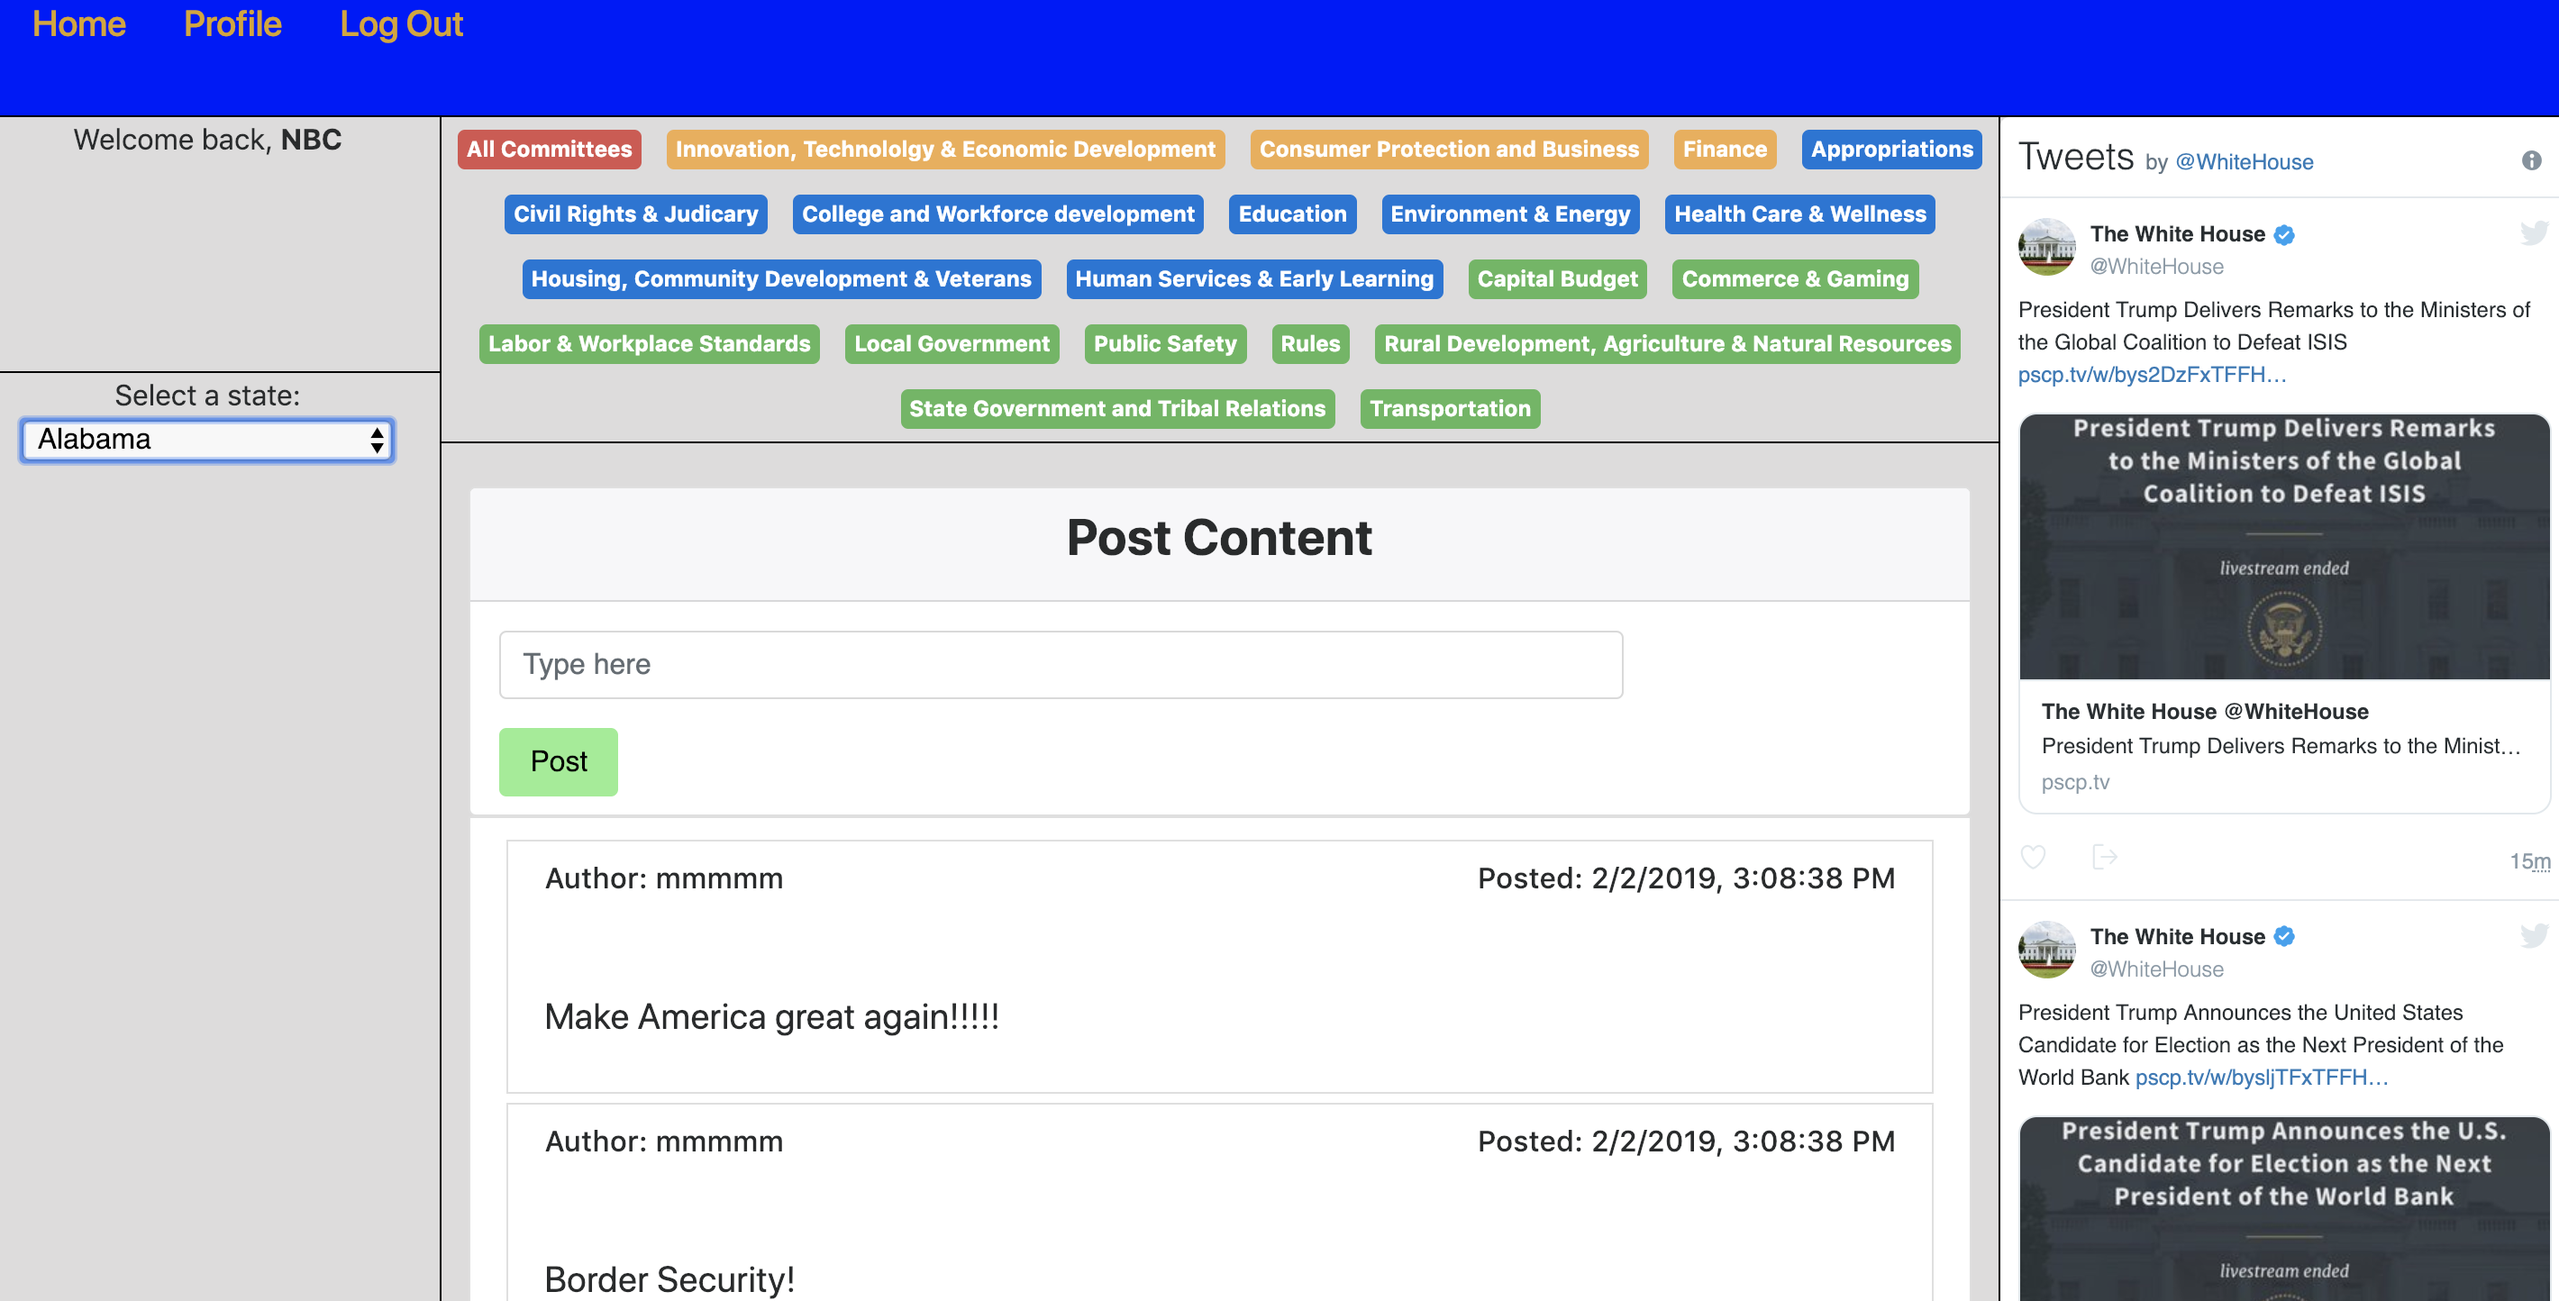
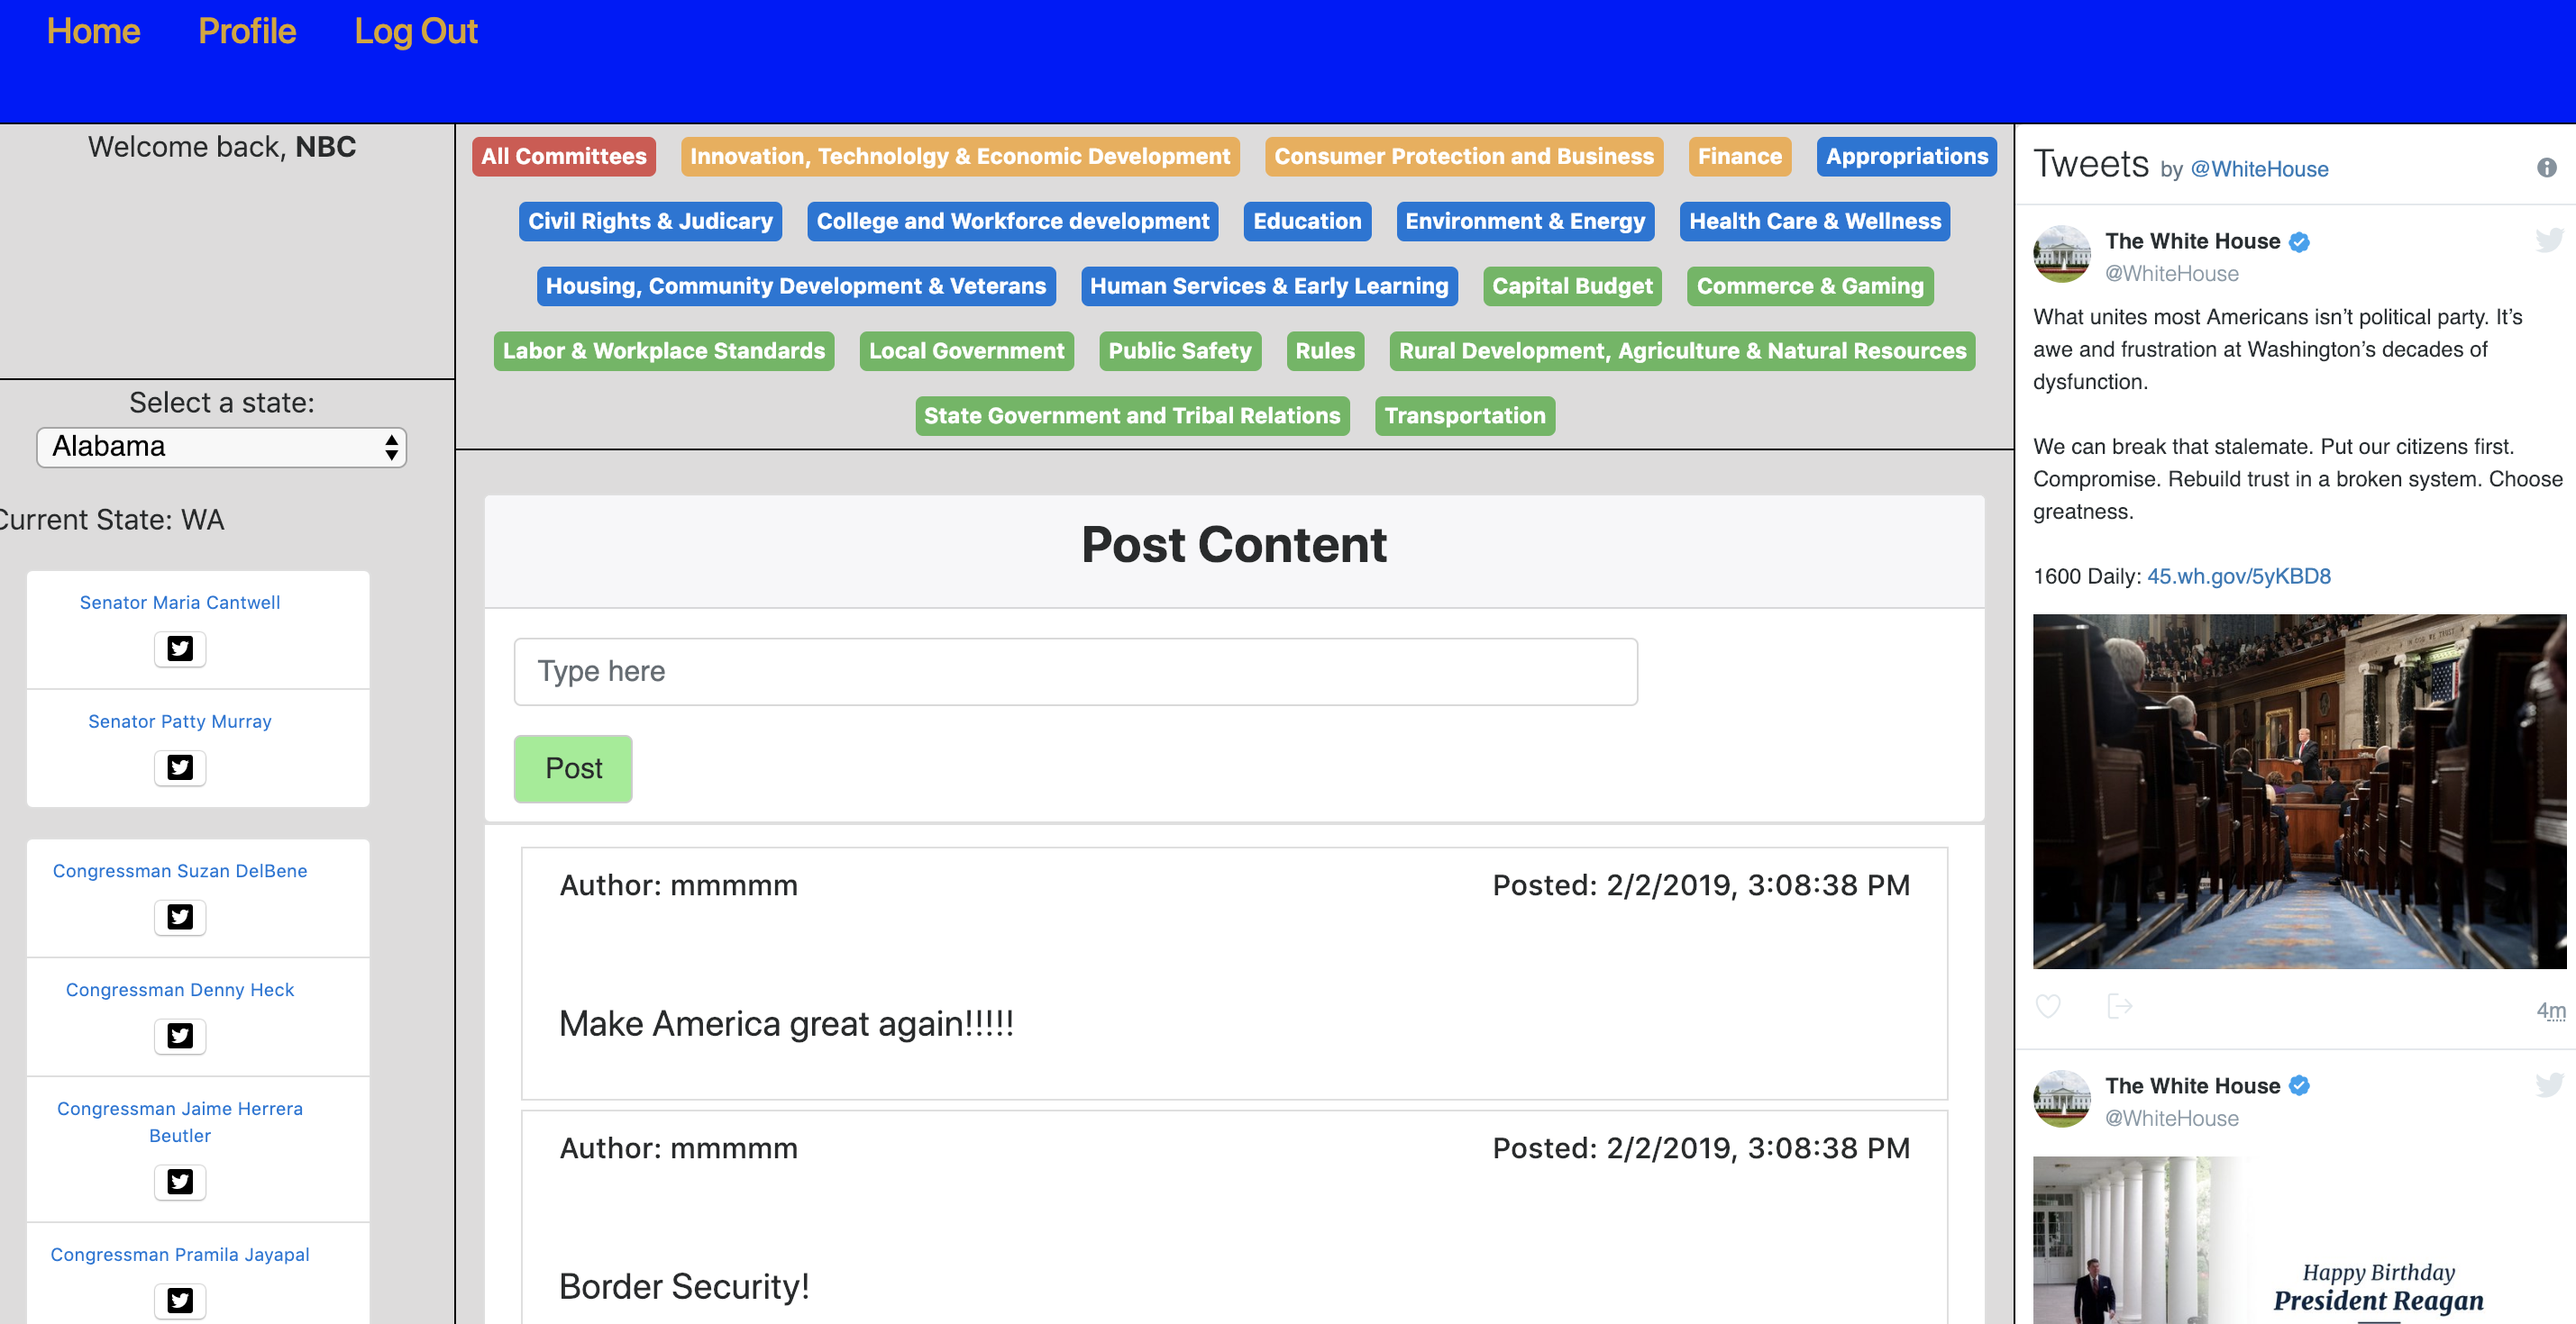
read me and styling updates

diff --git a/client/src/App.css b/client/src/App.css
@@ -65,8 +65,9 @@ padding: 5px;
 
 .twit {
   position: relative;
+  margin-top: 8px;
   /* Adjust these values accordingly */
-  bottom: 15px;
+  /* bottom: 15px; */
   /* left: 0px; */
 }
 
@@ -164,6 +165,7 @@ padding: 5px;
   border-bottom: 1px solid black;
   height: 10%;
   background-color: blue;
+  overflow: auto;
 }
 
 .navBar a {
@@ -183,6 +185,7 @@ padding: 5px;
   border-bottom: 1px solid black;
   height: 20%;
   align-items: stretch;
+  overflow: auto;
 }
 
 .rightSideBar {
@@ -229,5 +232,9 @@ padding: 5px;
   background-color: lightgreen;
   margin-left: 16px;
   margin-bottom: 10px;
+}
+
+.currentState {
+  margin-left: 2.5rem;
 }
 

diff --git a/client/src/components/Districts/districts.js b/client/src/components/Districts/districts.js
@@ -145,8 +145,8 @@ class Districts extends Component {
           <p></p>)
           :
           ((this.props.usState != null)?
-          (<p>Current State: {this.props.usState}</p>):
-          (<p>Current State: {this.props.user.address.state}</p>))
+          (<p className="currentState">Current State: {this.props.usState}</p>):
+          (<p className="currentState">Current State: {this.props.user.address.state}</p>))
           }
         </Row>
         <Row>

diff --git a/client/src/components/Senator/index.js b/client/src/components/Senator/index.js
@@ -20,8 +20,8 @@ console.log(profile_url);
           <a href={profile_url} target="_blank" >
             <p id="senator">{title} {first_name} {last_name}</p>
           </a>
-          <button onClick={switchTwitter}>
-            <i  class="twit fab fa-twitter-square "></i>
+          <button onClick={switchTwitter} class="twit fab fa-twitter-square ">
+            
           </button>
         </span>
         {/* onClick={switchTwitter}  */}
